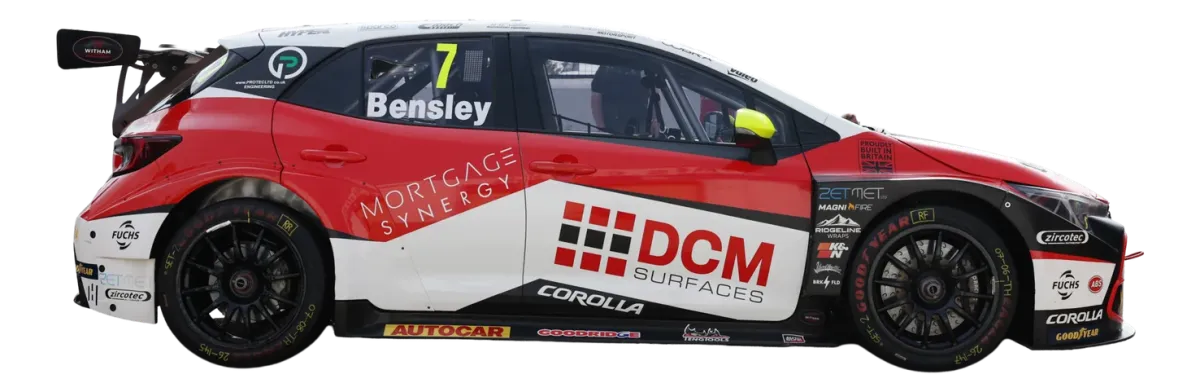
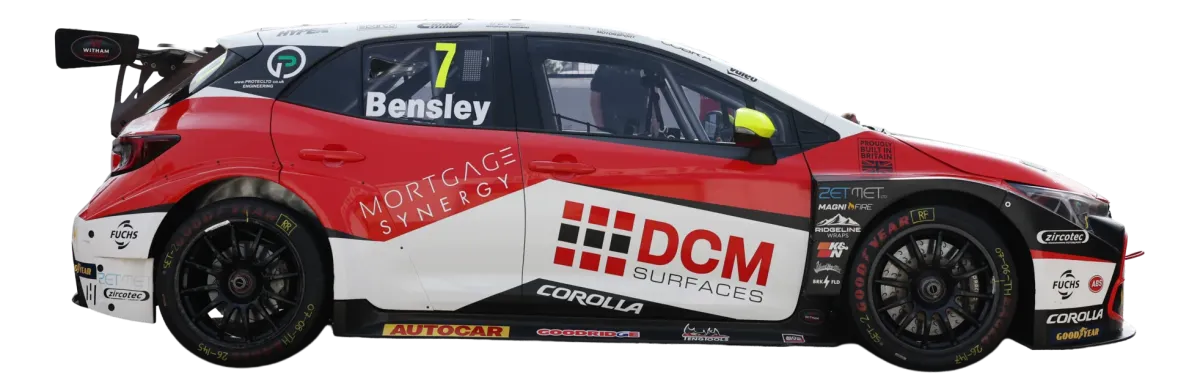
fix: replace 4 car images with genuinely higher-res sources
DriverDetailScreen's car banner was still reported blurry after the
CROP_THUMB_WIDTH bump. Checked the base source first: cropping
data/carImages/deleon.webp to its own native 1536x1024 pixels (no
resize at all) showed it was already soft at 1:1 - the blur was baked
into the source render itself, not fixable by any thumbnail-generation
parameter.

User offered hi-def originals on disk (data/cars high def/, 29 files).
Checked every one rather than assuming the folder helped uniformly:
most turned out to be the exact same 1536x1024 render already in the
repo, just re-saved as PNG instead of WebP - confirmed via matching
getbbox() output pixel-for-pixel against the already-committed files.
Swapping those in would change nothing.

Four were genuine upgrades, confirmed via real photographic detail in
a cropped region (reflections, fabric texture, background people/
fencing), not just a bigger file: bensley.webp, gilbert.webp,
halstead.webp (2 identical duplicate uploads, confirmed via md5,
correctly the "Ask GVT" livery) and sutton.webp (6000x4000 native).
Converted to WebP (cwebp -q 85, matching convention) and replaced
those 4 source files, then re-ran generate_car_thumb.py for just them
- both derived variants regenerated, TeamDetailScreen's cards get a
quality bump for these 4 as a free side effect. New crop aspect ratios
(3.07/2.71/3.26/3.14) land within carStrip's existing tuned range, no
layout change needed.
[…]

diff --git a/README.md b/README.md
@@ -912,6 +912,8 @@ Located in [tools/scraper/](tools/scraper/). Run manually or via CI to update da
 
 **Hardcoded driver/team images** - `data/driverImages/`, `data/carImages/`, `data/numberImages/` and `data/backgroundImages/` hold official team/driver graphics (headshot, side-on car cutout, branded number graphic, 1920x600 card background respectively). `driverImages/`/`numberImages/` stay named `<car number>`; team backgrounds use `<team-slug>`. `carImages/` was renamed `<car number>` → `<driver surname>` 2026-08-21 (e.g. `patterson.webp`, `halstead.webp`) - a car number was already 1:1 with a driver, but the surname makes it legible which specific driver's livery a file is, which matters now that `carImageUrl` is read per-driver rather than once per team (see the Grid/Merch/TeamDetail entries above). All four folders are WebP end to end as of the same date (only `numberImages/` still keeps a couple of tiny flat-graphic files as PNG, where WebP wasn't smaller) - the batch had been a mix of WebP and full lossless PNG at roughly double the size for the same picture, `numberImages/123.png` (Daniel Lloyd, a grunge-textured graphic rather than the flat silhouette style of its siblings) needed lossless WebP specifically since lossy actually made it bigger. Photo-like content (cars, headshots, gradient backgrounds) compresses far better lossy; flat vector-style graphics (most number badges) don't need converting at all and can even lose ground to lossy WebP if attempted. Referenced by `raw.githubusercontent.com` URL from `data/drivers.json`: driver-level `imageUrl`/`carImageUrl`/`numberImageUrl`/`cardBgUrl`, team-level `cardBgUrl`/`carImageUrl` (`attachTeamDisplayFields()` in `src/api/parsers.js` prefers a driver's own `cardBgUrl`/`carImageUrl` over their team's, same precedence for both fields - team-level `carImageUrl` is now purely that fallback, since no screen renders it directly any more). `numberImageUrl` replaced the plain styled-text car number in `DriversScreen`/`DriverDetailScreen`/`TeamDetailScreen` (falls back to the old text rendering when absent). No scraper writes any of these four fields - swapping an image means committing a new file under the same name (or repointing the URL in `drivers.json` if the name changes), no code change or app release needed. Adding or replacing a `carImages/` file specifically also needs `python3 scripts/generate_car_thumb.py` re-run for it - it now generates two derived variants, not one: the plain `-thumb.webp` `TeamDetailScreen` requests (padding intact, on purpose - its sponsor logo overlay relies on it) and the cropped `-thumb-crop.webp` `DriverDetailScreen`'s banner requests (see that screen's entry above for the full story of why two, not one). A missing variant 404s the same way a missing full-size file used to. Nick Halstead's headshot/car gap (both `driverImages/55.webp` and `carImages/halstead.webp`, the latter confirming his mid-season car carries a separate "Ask GVT" livery from teammate Dexter Patterson's) was filled 2026-08-21; Senna Proctor (reserve-only, no seat of his own) remains the one gap.
 
+Four `carImages/` files (`bensley.webp`, `gilbert.webp`, `halstead.webp`, `sutton.webp`) were replaced 2026-08-21 with genuinely higher-resolution sources the user had on disk, after `DriverDetailScreen`'s car banner was reported "still blurry" - checked before assuming the rest of the 23 needed the same treatment: every other file in the offered source folder turned out to be the *exact same* 1536x1024 render already in the repo, just re-saved as PNG instead of WebP (confirmed via matching `getbbox()` output pixel-for-pixel against the already-committed file, not just eyeballed), so swapping those in would have changed nothing. Only these four were real upgrades (2048x1365-6000x4000, confirmed sharp via a cropped detail region showing genuine photographic texture, not just a bigger canvas). `scripts/generate_car_thumb.py` re-run for just these four regenerates both derived variants from the new source; the other 19 drivers' cars, including the one most tested during this whole feature's development (De Leon), remain as soft as the original source they were always generated from - fixing those needs an actual higher-resolution photo from somewhere, not a reprocessing trick.
+
 `driverImages/7.webp` (Ryan Bensley) and `29.webp` (Lewis Gilbert) are genuine half-body source photos (683x854, not the 683x1024 every other driver's headshot is) - fixed 2026-08-21 by padding transparent space above the head to reach the full 683x1024 canvas with the existing content bottom-aligned, then regenerating both bundled `src/assets/driver_images/{7,29}.webp` from that corrected source. Previously the shorter canvas rendered as a half-body photo floating vertically centered in `DriversScreen`'s tile and `DriverDetailScreen`'s header (both `resizeMode="contain"`, which centers by default) rather than anchored to the bottom edge like every full-body photo - visible as an odd hard crop-line mid-tile rather than a clean cutout against transparent background. Padding doesn't add missing leg/feet content (there isn't any to add), it just repositions what exists to sit where a full-body photo's feet normally would, matching how every other driver's headshot already behaves in both places.
 
 **merge_schedule.py** - Merges scraped session times from `schedule.json` into `calendar.json`. Run after `scrape_schedule.py` as a separate step in `scrape-schedule.yml`.
